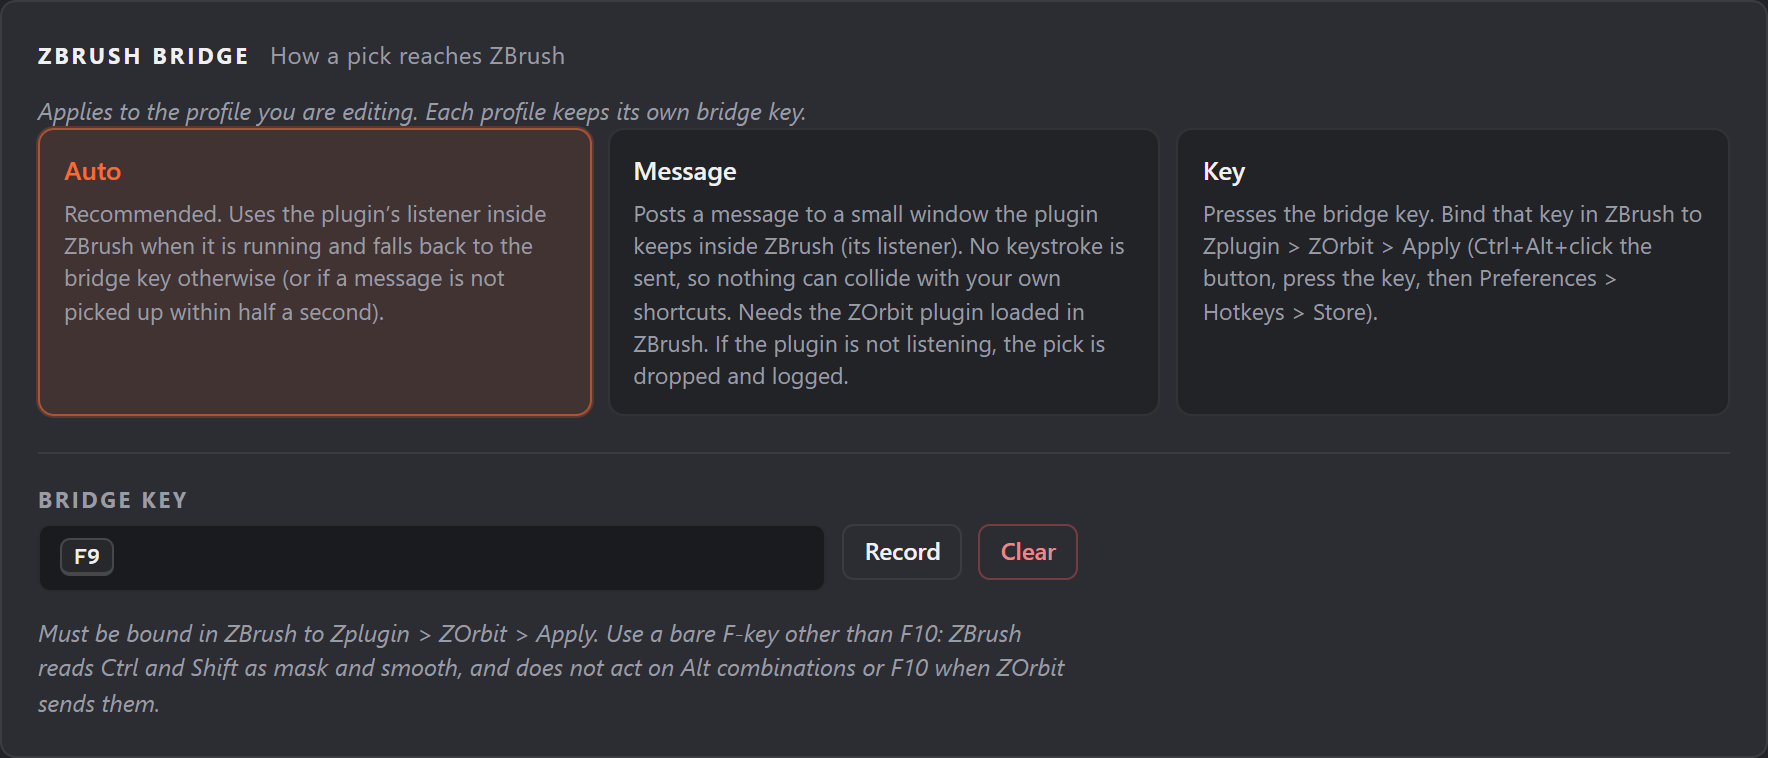
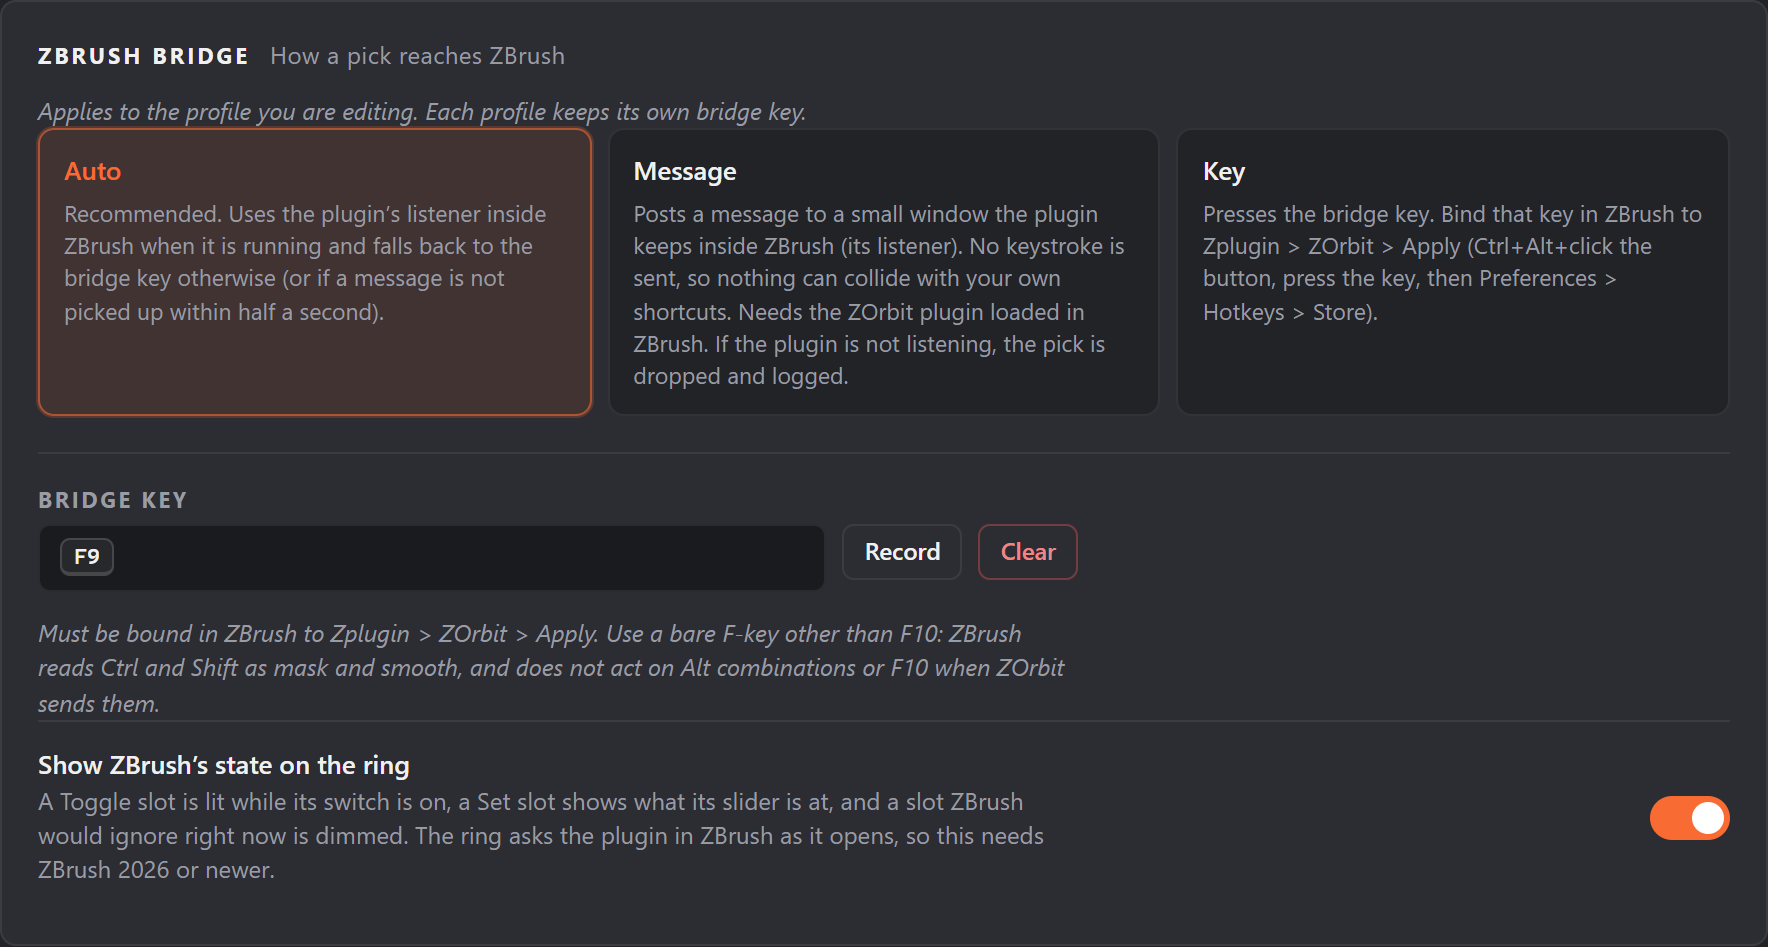
Docs: the bridge card picture shows the state switch, and the question file goes only when the setting is off or the app quits

diff --git a/docs/bridge.md b/docs/bridge.md
@@ -31,7 +31,7 @@ When you pick a slot, the app has to tell ZBrush. It writes the request to a fil
 | `message` | Posts a window message to a hidden listener inside ZBrush. No keystroke is sent, so nothing can collide with your own shortcuts. If the listener is not available, the pick is dropped and logged. |
 | `key` | Presses the bridge key every time. |
 
-![Settings > ZBrush bridge (Full mode): the Auto, Message and Key modes with Auto selected, and the bridge key field set to F9 with Record and Clear buttons](images/settings-bridge.png)
+![Settings > ZBrush bridge (Full mode): the Auto, Message and Key modes with Auto selected, the bridge key field set to F9 with Record and Clear buttons, and the Show ZBrush's state on the ring switch, which is on](images/settings-bridge.png)
 
 The **message** route needs nothing from you. It works once the plugin has loaded and its listener is verified (see **Zplugin > ZOrbit > Status**).
 
@@ -91,9 +91,9 @@ The ring can show what ZBrush is doing: which switches are on, where a slider is
 3. The plugin reads each one on ZBrush's main thread: whether the button is there, whether it is greyed, and for a switch or a slider its value and its range. It writes the answer to `zstate.json` and posts a message back to the app.
 4. The app takes the answer if it belongs to the question it asked and to that ZBrush, and draws the marks on the open ring.
 
-A question changes nothing in ZBrush, so the plugin answers it even in the middle of a stroke. The app keeps one question waiting per listener. If ZBrush has not answered after 2 seconds, it counts the question as lost and asks again when the next ring opens.
+A question changes nothing in ZBrush, so the plugin does not hold it back during a stroke, as it does a pick. The app keeps one question waiting per listener. If ZBrush has not answered after 2 seconds, it counts the question as lost and asks again when the next ring opens.
 
-After every pick the plugin answers again by itself, without being asked, so the app already knows the new state when the next ring opens. A pick that waits for a stroke to end is answered once it has been carried out. The plugin stops doing this when the app takes `zstate_query.json` away: when you turn the setting off, when the ring is opened over a ZBrush that cannot answer, and when the app quits.
+After every pick the plugin answers again by itself, without being asked, so the app already knows the new state when the next ring opens. A pick that waits for a stroke to end is answered once it has been carried out. The plugin stops doing this when the app takes `zstate_query.json` away: when you turn the setting off, and when the app quits.
 
 The plugin stops reading after 20 milliseconds. A slot whose path it did not reach by then gets no mark, and both logs say the answer was cut short.
 

diff --git a/docs/files.md b/docs/files.md
@@ -36,7 +36,7 @@ To share one menu, use **Export menu...** in the **Menu** tab. It writes the men
 | `%LOCALAPPDATA%\ZOrbit\bridge.log` | The plugin inside ZBrush: what each pick actually did. |
 | `%LOCALAPPDATA%\ZOrbit\app_stderr.log` | Output when the app crashes on startup. When ZBrush 2026 starts the app, the app's log lines land here too. |
 | `%LOCALAPPDATA%\ZOrbit\listener.json` | The verified listener window (written by the plugin). |
-| `%LOCALAPPDATA%\ZOrbit\zstate_query.json` | What the app asked ZBrush 2026 and newer: the interface paths of the **Press**, **Set** and **Toggle** slots of the ring that opened last, and of its fans, each with its type. Written by the app each time a ring opens over ZBrush, and removed when the app stops asking (**Show ZBrush's state on the ring** turned off, a ZBrush that cannot answer, the app quitting). See [How ZBrush's state reaches the ring](bridge.md#how-zbrushs-state-reaches-the-ring). Safe to delete. |
+| `%LOCALAPPDATA%\ZOrbit\zstate_query.json` | What the app asked ZBrush 2026 and newer: the interface paths of the **Press**, **Set** and **Toggle** slots of the ring that opened last, and of its fans, each with its type. Written by the app each time a ring opens over ZBrush, and removed when the app stops asking (**Show ZBrush's state on the ring** turned off, or the app quitting). See [How ZBrush's state reaches the ring](bridge.md#how-zbrushs-state-reaches-the-ring). Safe to delete. |
 | `%LOCALAPPDATA%\ZOrbit\zstate.json` | ZBrush's answer, written by the plugin: for each path whether ZBrush has it, whether it is greyed, and for a switch or a slider its value and range. It also holds the names of ZBrush's current tool, brush and material, the file of the current brush and whether Edit mode is on. The brush file is a full path, so look before you share the file. Rewritten with each answer. Safe to delete. |
 | `%LOCALAPPDATA%\ZOrbit\activity.json` | The last ring the app opened and the last pick it sent: the route, whether it went out, and whether the plugin picked it up. `elevated_zbrush` is `true` while a ZBrush running as administrator is open (the app cannot work with it). Written by the app; Setup's **Try the ring** step reads it. Safe to delete. |
 | `%LOCALAPPDATA%\ZOrbit\request.json` | The pick in transit. Normally gone in a moment. A pick that could not be handed over is deleted again. |
